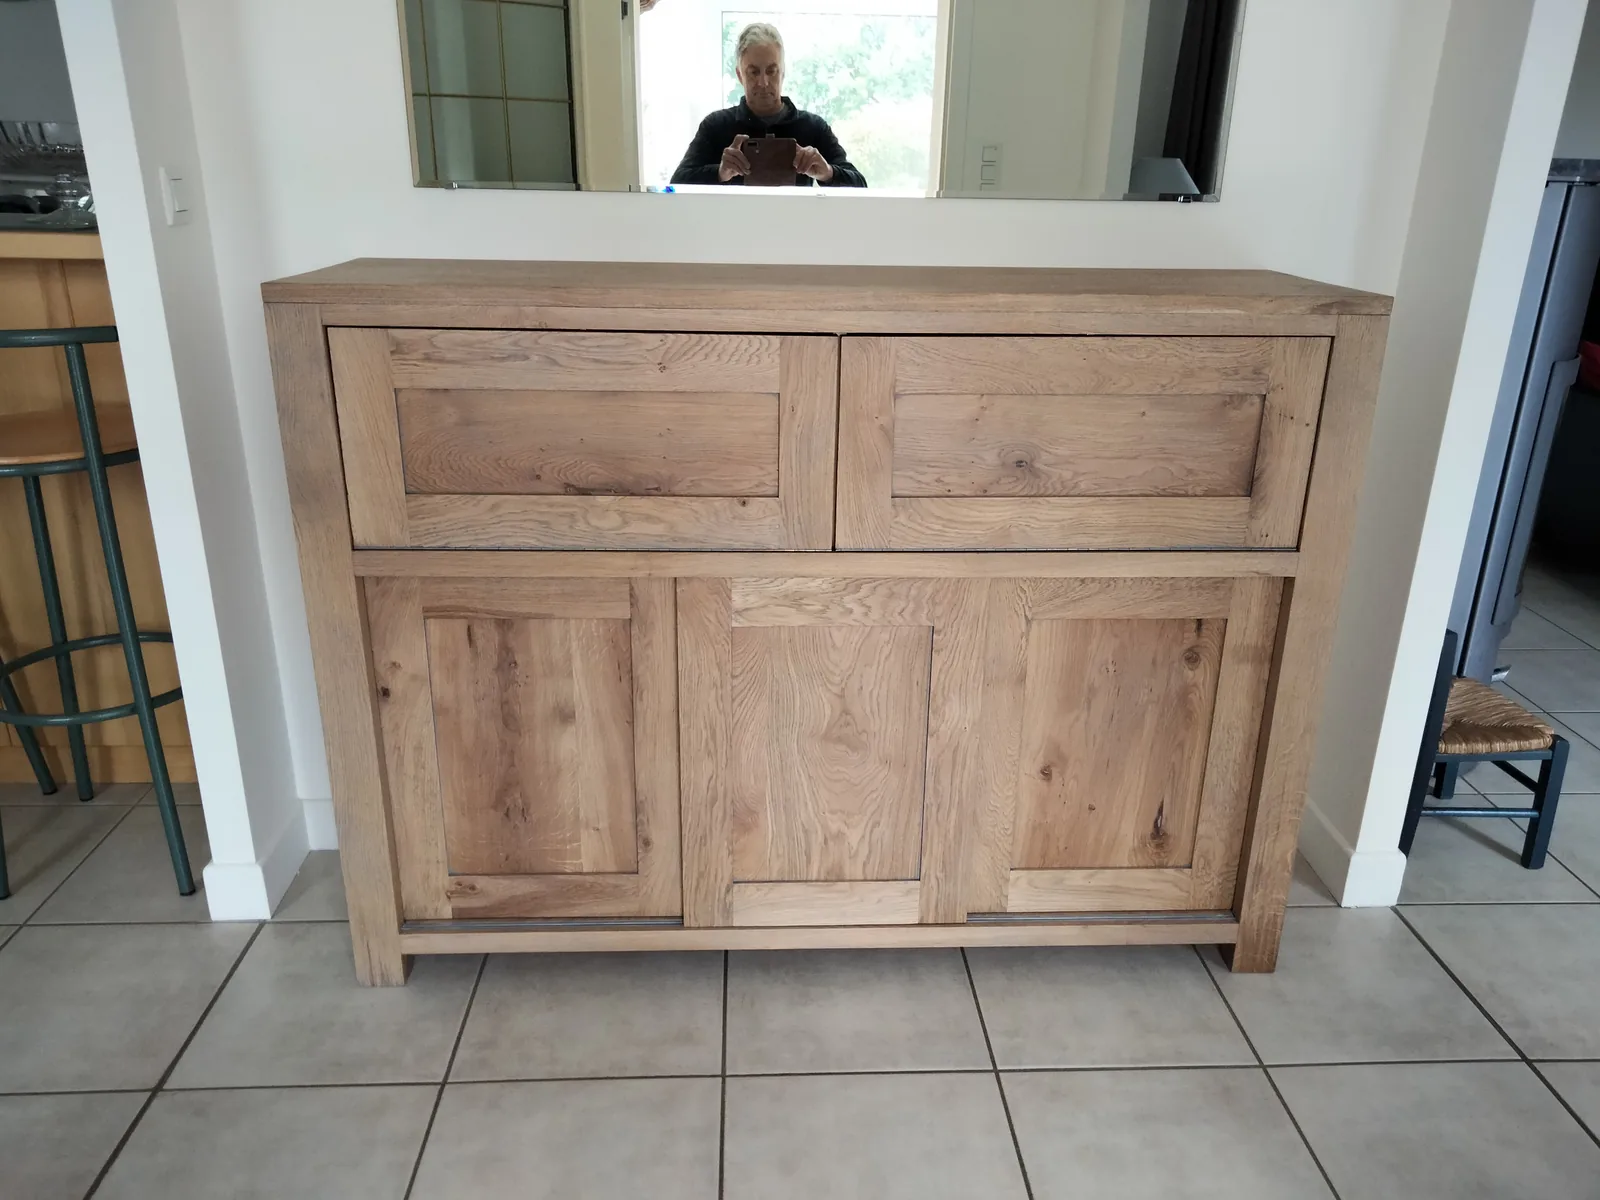
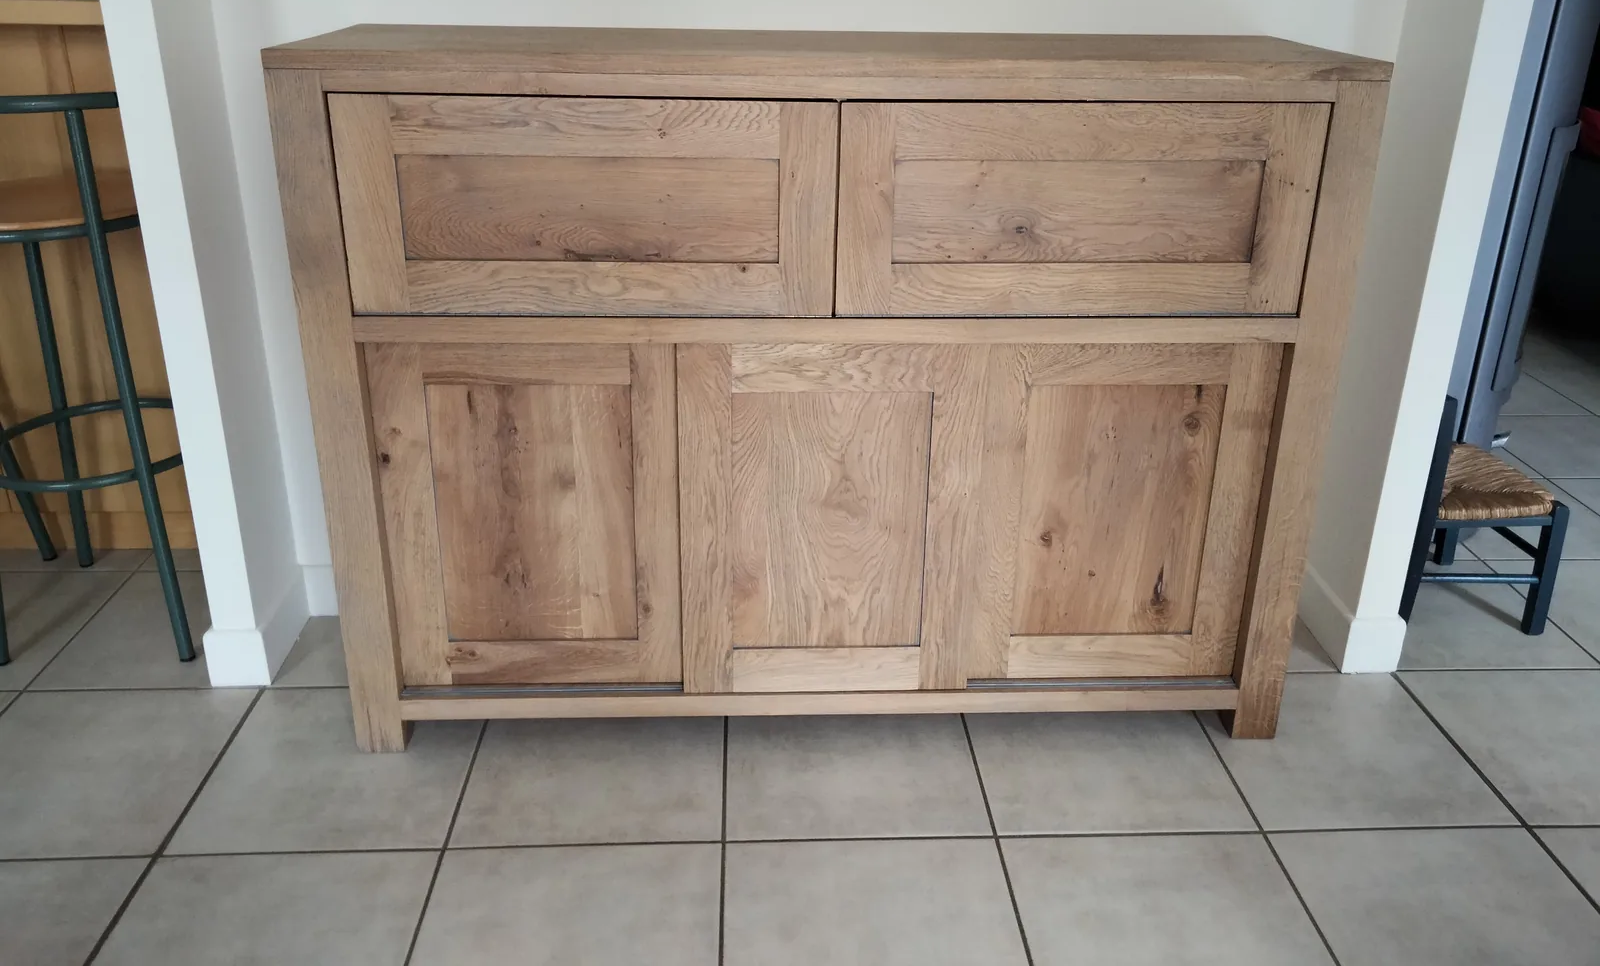
feat : change data

diff --git a/js/data.js b/js/data.js
@@ -243,7 +243,7 @@ const SITE = {
       alt: "Fenêtre PVC à deux vantaux et petits carreaux",
     },
     {
-      titre:       "Fenêtre alu & vue jardin",
+      titre:       "Bévitre aluminium & encadrement pierre",
       description: "Menuiserie aluminium & Encadrement pierre",
       type:        "Menuiserie",
       src: "assets/images/fenetre_alu_vue_jardin.webp",